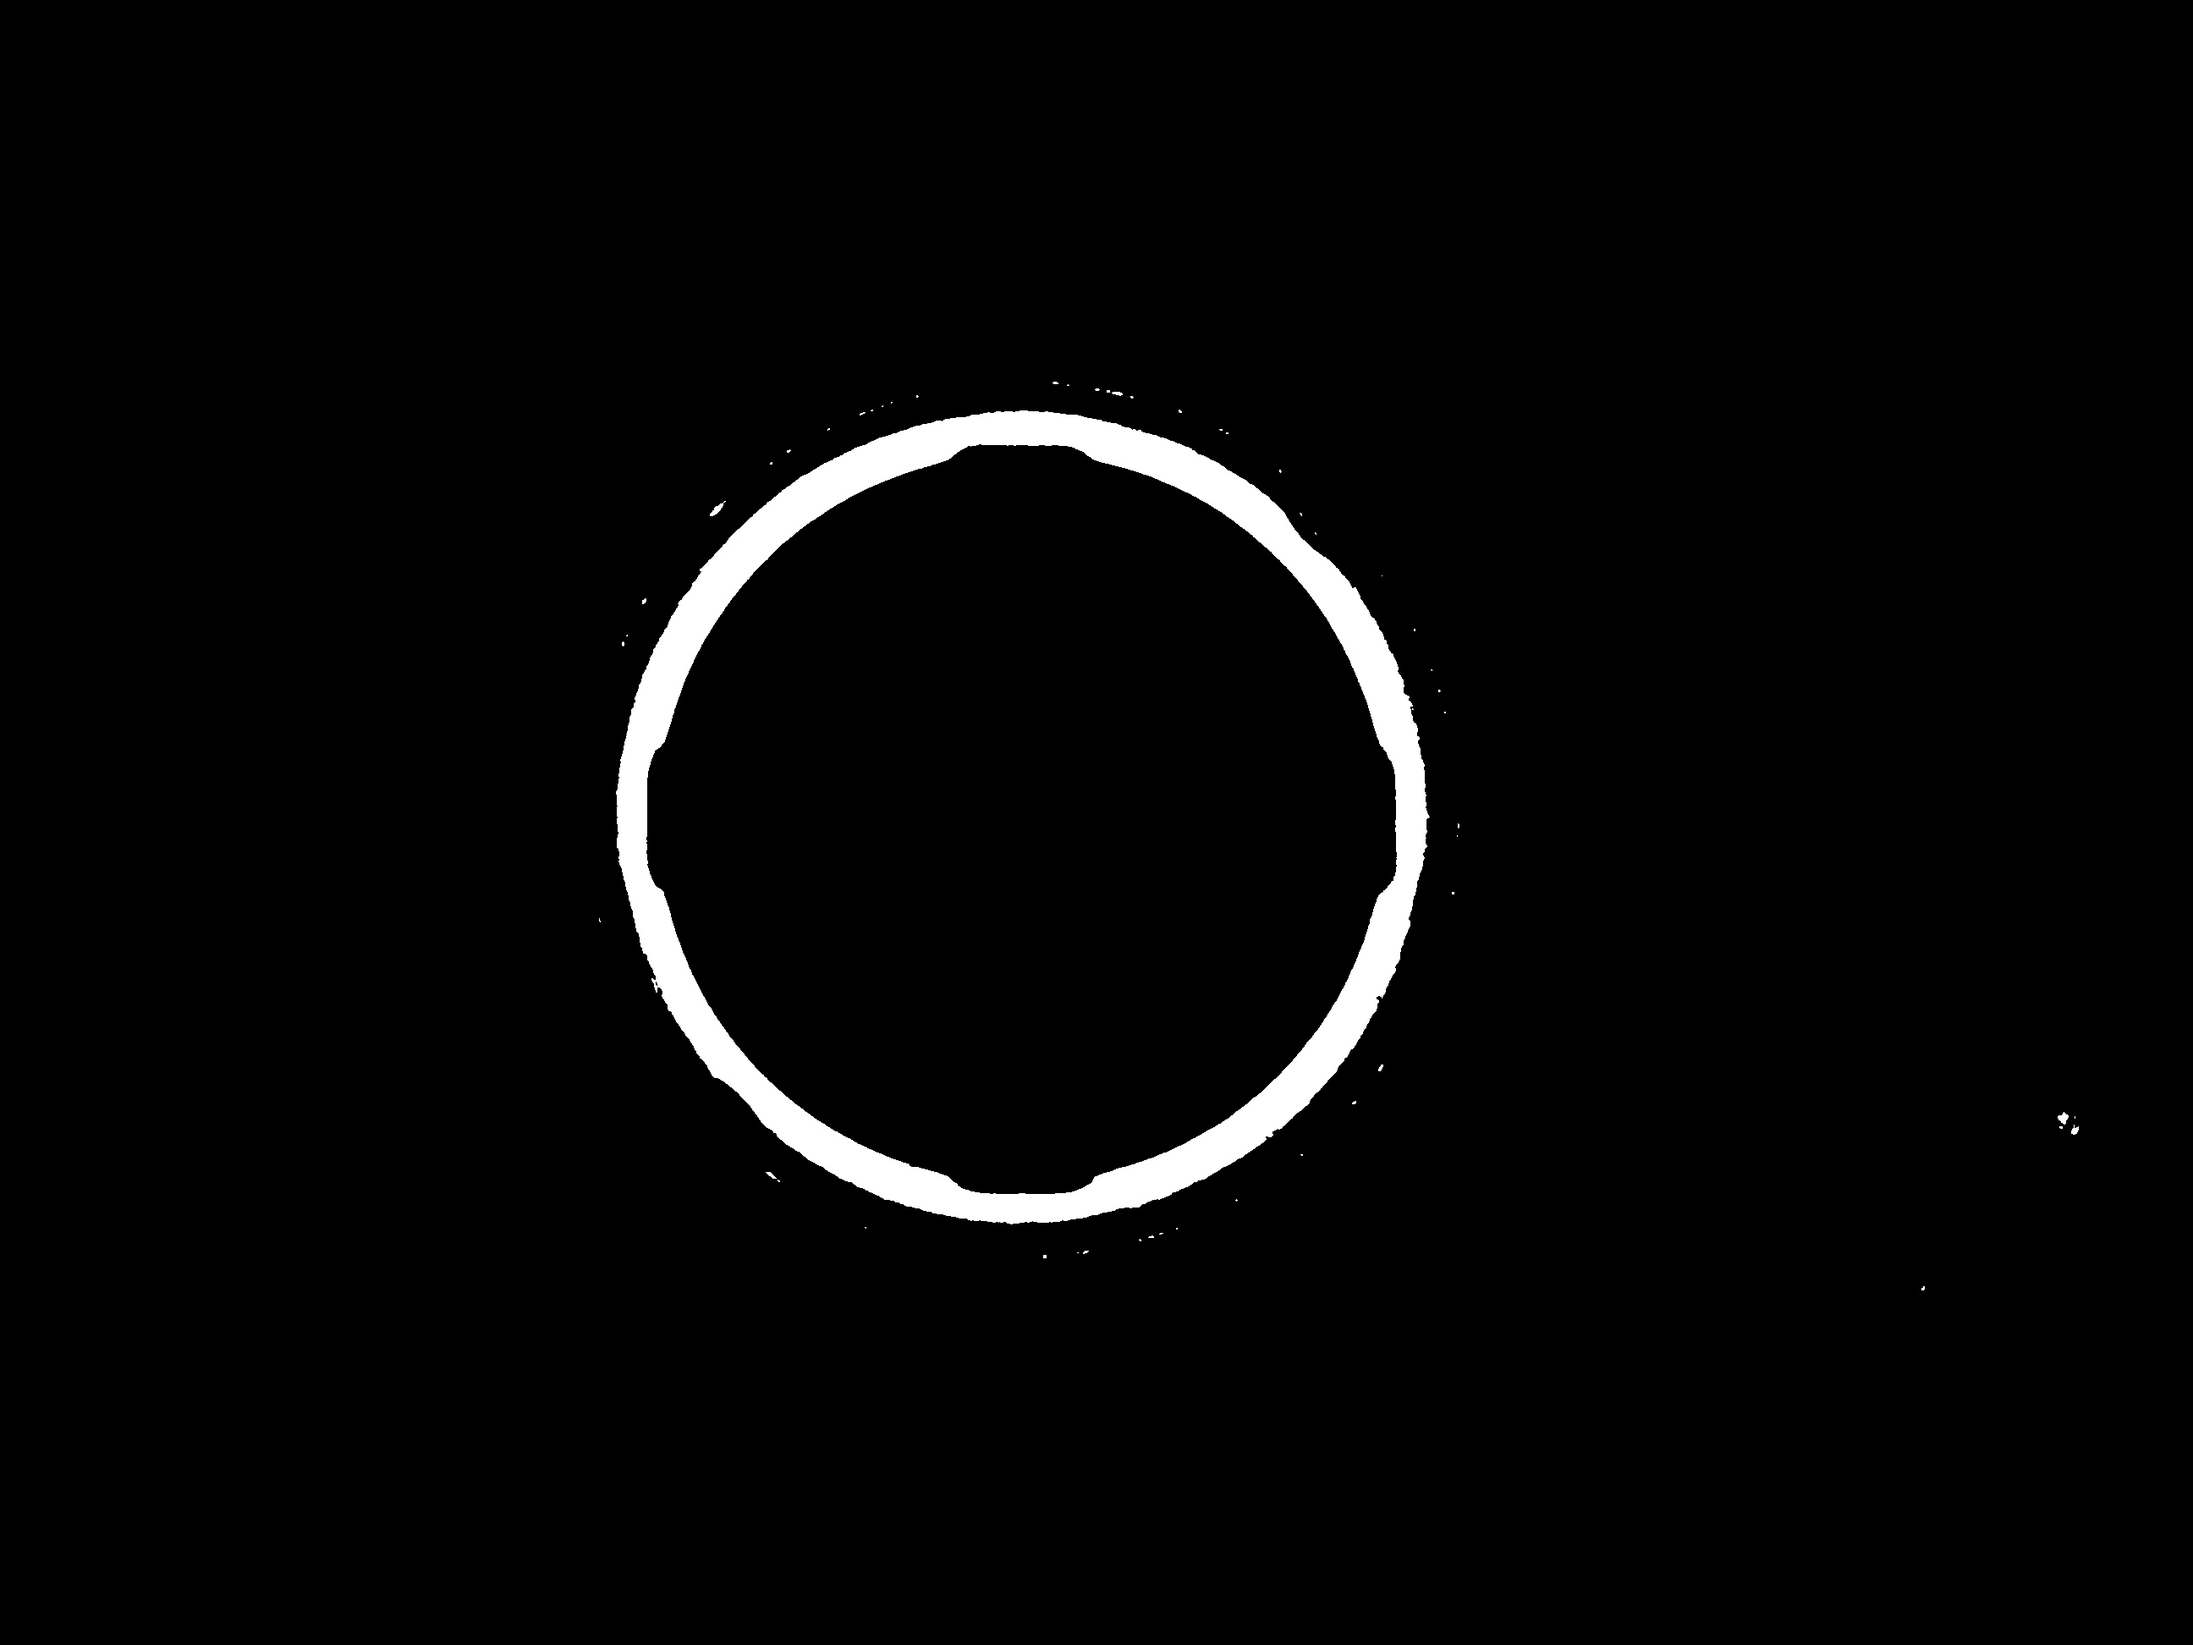
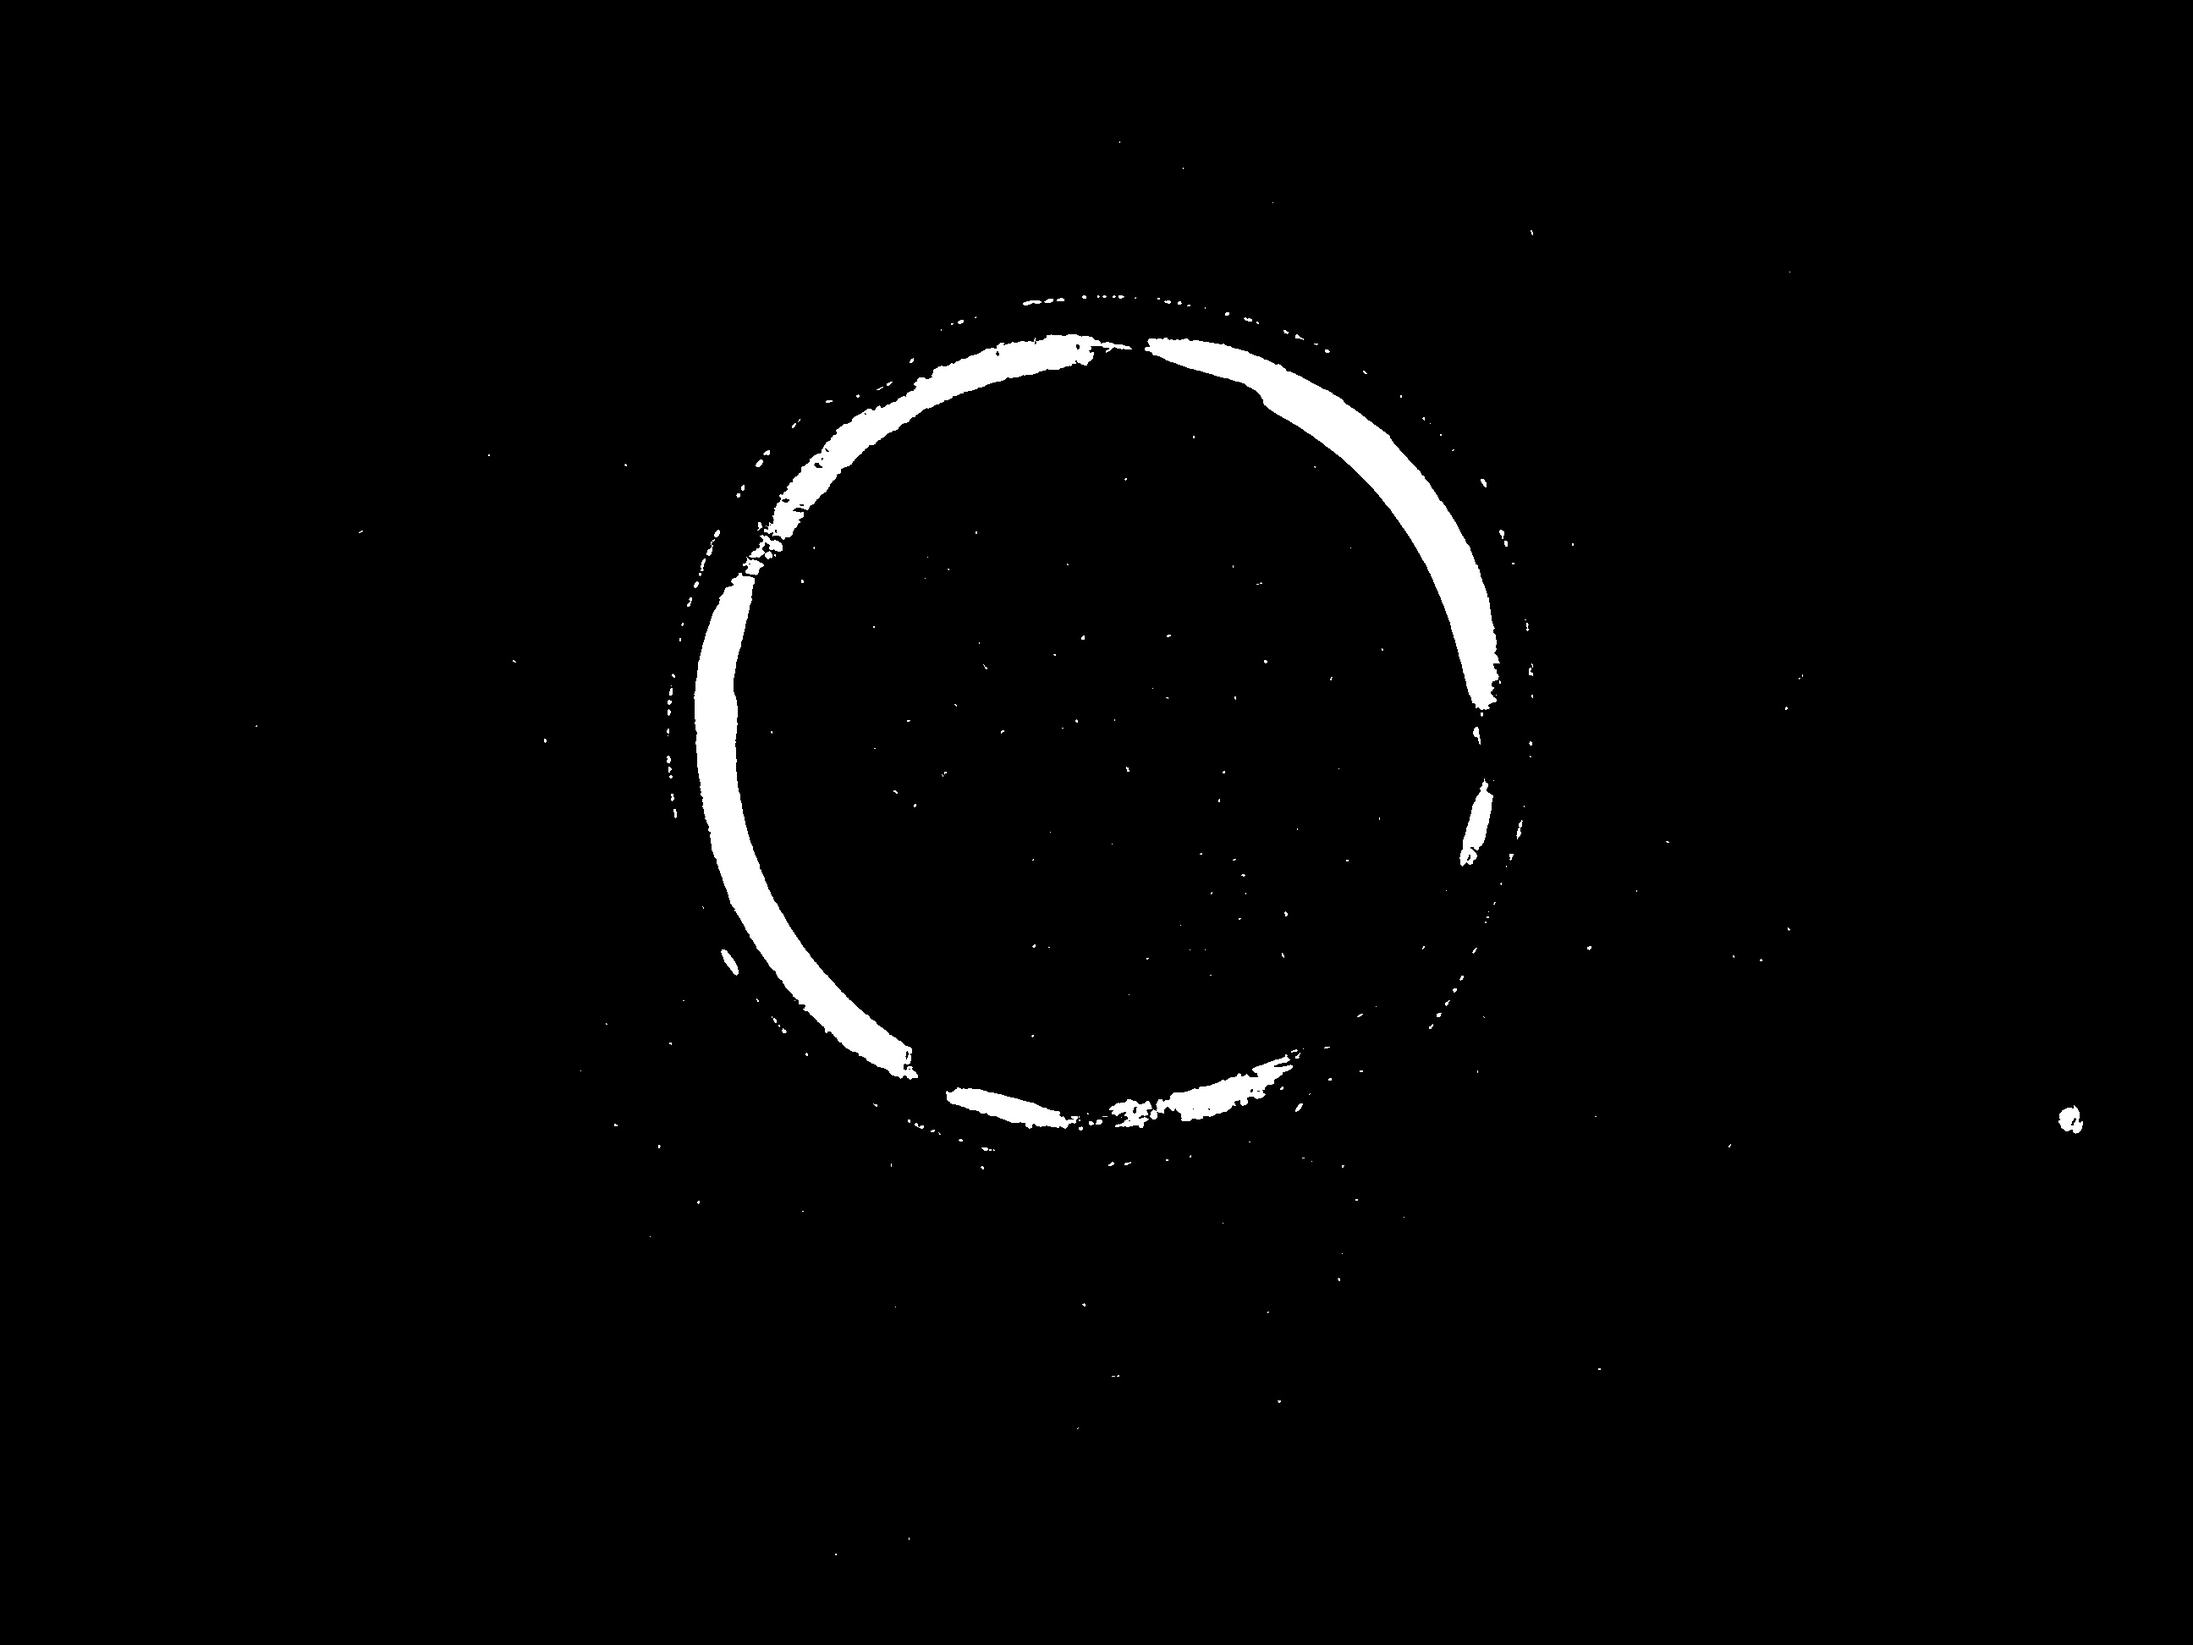
2

Changed region(s): [[0.2812, 0.1852, 0.6875, 0.7407]]

diff --git a/Automation/CCD3/CCD3AngleDetection.py b/Automation/CCD3/CCD3AngleDetection.py
@@ -135,8 +135,8 @@ class AngleDetector:
         self.min_area_rate = 0.05
         self.sequence_mode = True  # CASE模式預設使用序列模式(選擇最後一個輪廓)
         self.gaussian_kernel = 3
-        self.threshold_mode = 0  # 0=OTSU, 1=Manual
-        self.manual_threshold = 127
+        self.threshold_mode = 1  # 0=OTSU, 1=Manual
+        self.manual_threshold = 50
         
         # 性能優化：預編譯快取
         self._kernel_cache = {}
